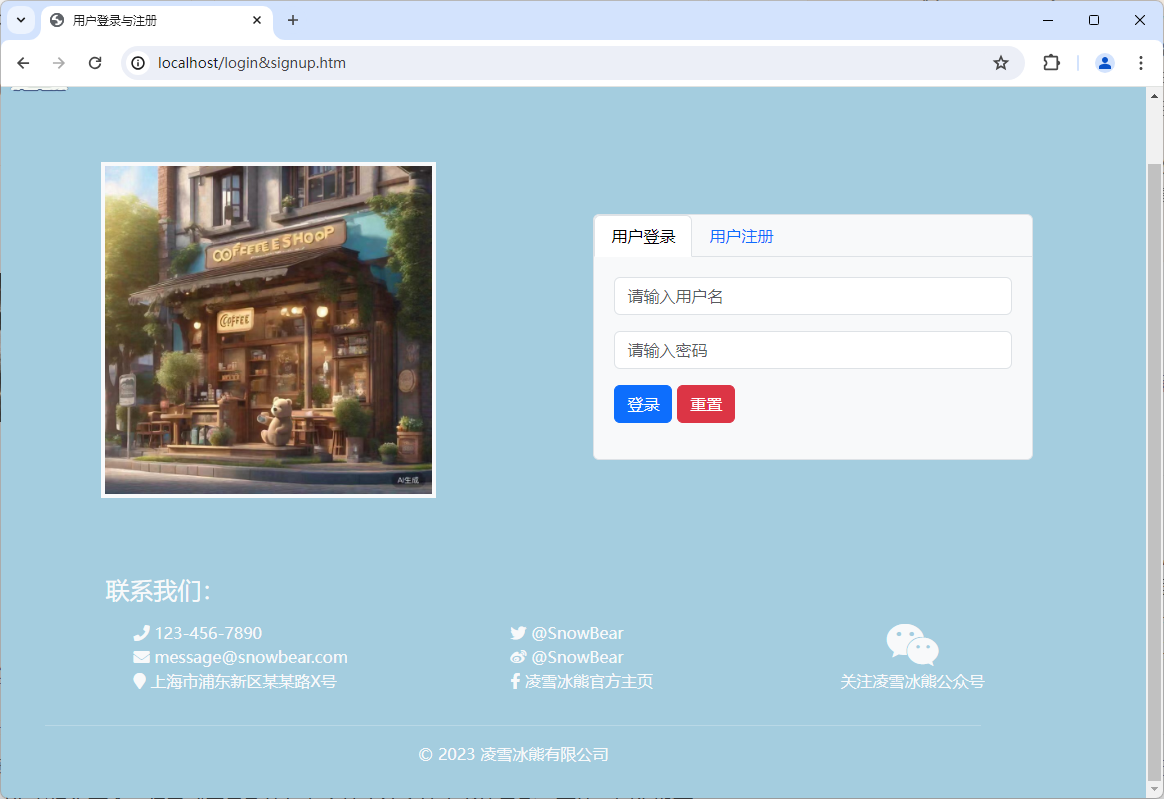
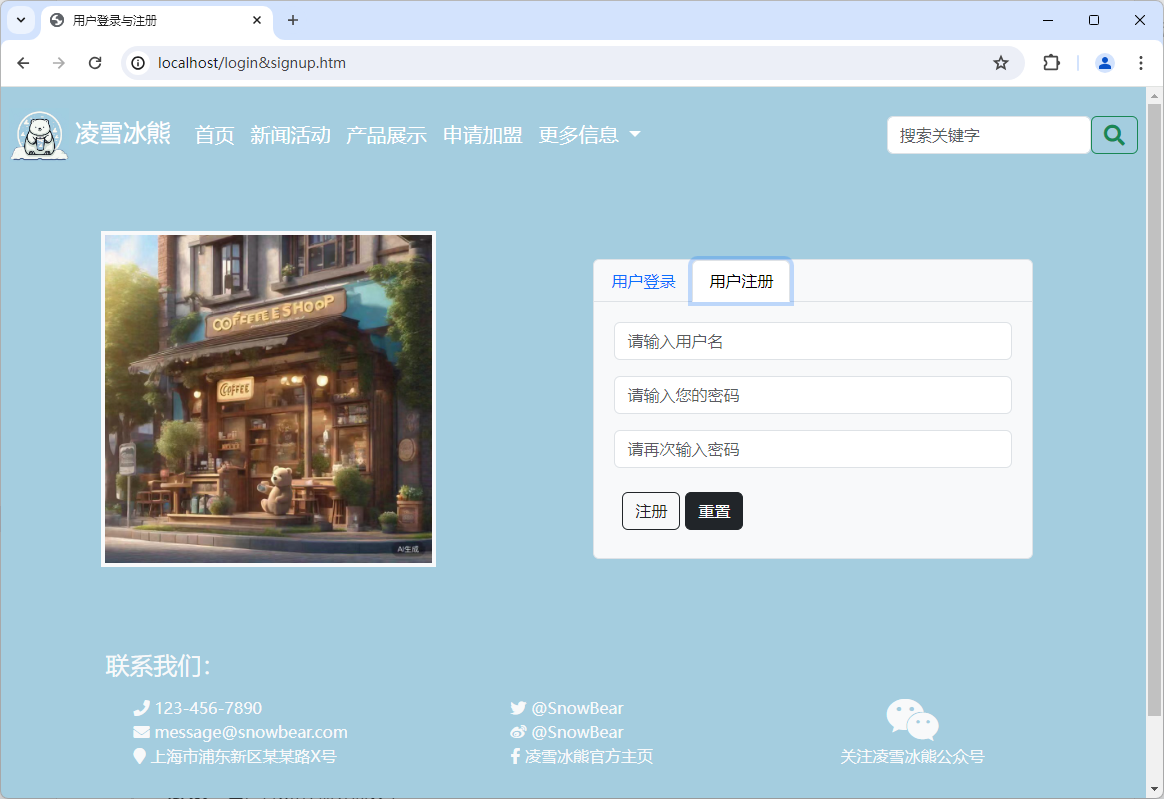
'项目3：进行到【工作实施与交付】'

diff --git a/Examples/01_snowbear/frontend/static/login&signup.htm b/Examples/01_snowbear/frontend/static/login&signup.htm
@@ -13,7 +13,10 @@
     <link rel="stylesheet" 
         href="https://use.fontawesome.com/releases/v5.11.2/css/all.css">
     <!-- 引入自定义的CSS样式文件 -->
-    <link rel="stylesheet" href="styles/custom.css"><title>用户登录与注册</title>
+    <link rel="stylesheet" href="styles/custom.css">
+    <!-- 引入自定义的JavaScript脚本文件 -->
+    <script defer src="scripts/login&signup.js"></script>
+    <title>用户登录与注册</title>
 </head>
 <body>
     <!-- 导航栏区域开始-->
@@ -99,19 +102,28 @@
                     <div class="tab-content container p-1">
                         <div class="tab-pane fade show active" id="loginTab"
                                 role="tabpanel" aria-labelledby="loginTab-tab">
-                                <form class="p-3 m-0"
-                                    method="post" action="http://example.com/api">
+                                <form class="p-3 m-0" id="loginForm"
+                                    method="post" 
+                                    action="http://localhost/users/session">
                                     <div class="mb-3">
-                                        <input type="text" class="form-control col-5" id="username" name="username" placeholder="请输入用户名">
+                                        <input type="text" class="form-control" 
+                                            name="username" placeholder="请输入用户名">
+                                        <div id="checkname" class="text-danger mx-2">
+                                        </div>
                                     </div>
-                                    <div class="mb-3">
-                                        <input type="password" class="form-control" id="password" name="password" placeholder="请输入密码">
+                                    <div class="mb-3 form-group">
+                                        <input type="password" class="form-control" 
+                                            name="password" placeholder="请输入密码">
+                                        <div id="checkpwd" class="text-danger mx-2">
+                                        </div>
                                     </div>
                                     <div class="mt-3 p-2">
-                                        <button type="submit" class="btn btn-light btn-outline-dark">
+                                        <button type="submit" 
+                                            class="btn btn-light btn-outline-dark">
                                             登录
                                         </button>
-                                        <button type="reset" class="btn btn-dark">
+                                        <button type="reset" 
+                                            class="btn btn-dark mx-3">
                                             重置
                                         </button>
                                     </div>
@@ -119,20 +131,34 @@
                         </div>
                         <div class="tab-pane fade" id="signupTab" role="tabpanel"
                             aria-labelledby="signupTab-tab">
-                            <form class="p-3 m-0"
-                                method="post" action="http://example.com/api">
+                            <form class="p-3 m-0" id="signupForm"
+                                method="post" action="http://localhost/users/newuser">
                                 <div class="mb-3">
-                                    <input type="text" class="form-control" id="username" name="username" placeholder="请输入用户名">
+                                    <input type="text" class="form-control" 
+                                        name="username" placeholder="请输入用户名">
+                                    <div id="checkname" class="text-danger mx-2">
+                                    </div>
                                 </div>
                                 <div class="mb-3">
-                                    <input type="password" class="form-control" id="password" name="password" placeholder="请输入您的密码">
+                                    <input type="password" class="form-control" 
+                                        name="password" placeholder="请输入您的密码">
                                 </div>
                                 <div class="mb-3">
-                                    <input type="password" class="form-control" id="password" name="password" placeholder="请再次输入密码">
+                                    <input type="password" class="form-control" 
+                                        id="password" name="password" 
+                                        placeholder="请再次输入密码">
+                                    <div id="checkpwd" class="text-danger mx-2">
+                                    </div>
                                 </div>
                                 <div class="mt-3 p-2">
-                                    <button type="submit" class="btn btn-light btn-outline-dark"">注册</button>
-                                    <button type="reset" class="btn btn-dark">重置</button>
+                                    <button type="submit" 
+                                        class="btn btn-light btn-outline-dark"">
+                                        注册
+                                    </button>
+                                    <button type="reset" 
+                                        class="btn btn-dark mx-3">
+                                        重置
+                                    </button>
                                 </div>
                             </form>
                         </div>
@@ -141,33 +167,34 @@
             </aside>
         </section>
     </main>
-        <!-- 页脚区域开始 -->
-        <footer class="p-3 text-light">
-            <section id="contact" class="container">
-                <h4>联系我们：</h4>
-                <div class="row m-3">
-                    <!-- 使用 <i> 标记的 class 属性插入来自第三方库的图标 -->
-                    <ul class="list-unstyled col-5">
-                        <li><i class="fa fa-phone"></i> 123-456-7890</li>
-                        <li><i class="fa fa-envelope"></i> message@snowbear.com</li>
-                        <li><i class="fa fa-map-marker"></i> 上海市浦东新区某某路X号</li>
-                    </ul>
-                    <ul class="list-unstyled col-4">
-                        <li><i class="fab fa-twitter"></i> @SnowBear</li>
-                        <li><i class="fab fa-weibo"></i> @SnowBear</li>
-                        <li><i class="fab fa-facebook-f"></i> 凌雪冰熊官方主页</li>
-                    </ul>
-                    <div class="col-3 text-center">
-                        <i class="fab fa-weixin fa-3x"></i>
-                        <p>关注凌雪冰熊公众号</p>
-                    </div>
+    <!-- 主体区域结束 -->
+    <!-- 页脚区域开始 -->
+    <footer class="p-3 text-light">
+        <section id="contact" class="container">
+            <h4>联系我们：</h4>
+            <div class="row m-3">
+                <!-- 使用 <i> 标记的 class 属性插入来自第三方库的图标 -->
+                <ul class="list-unstyled col-5">
+                    <li><i class="fa fa-phone"></i> 123-456-7890</li>
+                    <li><i class="fa fa-envelope"></i> message@snowbear.com</li>
+                    <li><i class="fa fa-map-marker"></i> 上海市浦东新区某某路X号</li>
+                </ul>
+                <ul class="list-unstyled col-4">
+                    <li><i class="fab fa-twitter"></i> @SnowBear</li>
+                    <li><i class="fab fa-weibo"></i> @SnowBear</li>
+                    <li><i class="fab fa-facebook-f"></i> 凌雪冰熊官方主页</li>
+                </ul>
+                <div class="col-3 text-center">
+                    <i class="fab fa-weixin fa-3x"></i>
+                    <p>关注凌雪冰熊公众号</p>
                 </div>
-            </section>
-            <section class="container text-center m-3 ">
-                <hr>
-                <span>&copy; 2023 凌雪冰熊有限公司</span>
-            </section>
-        </footer>
-        <!-- 页脚区域开始 -->
+            </div>
+        </section>
+        <section class="container text-center m-3 ">
+            <hr>
+            <span>&copy; 2023 凌雪冰熊有限公司</span>
+        </section>
+    </footer>
+    <!-- 页脚区域开始 -->
 </body>
 </html>

diff --git a/Examples/01_snowbear/frontend/static/scripts/login&signup.js b/Examples/01_snowbear/frontend/static/scripts/login&signup.js
@@ -1,0 +1,93 @@
+// 以下代码用于处理 id="loginForm" 的表单元素
+const loginForm = document.querySelector('#loginForm');
+
+// 检查用户名的输入
+loginForm.username.addEventListener('blur', function() {
+    const vmsg = loginForm.querySelector('#checkname');
+    if (!this.value) {
+        // 用户名为空时的处理逻辑
+        vmsg.innerText = '用户名不能为空！';
+        loginForm.username.classList.add('is-invalid');
+    } else if(!/^[a-zA-Z0-9]+$/.test(this.value)) {
+        // 用户名包含非法字符时的处理逻辑
+        vmsg.innerText = '用户名只能包含字母和数字空！';
+        loginForm.username.classList.add('is-invalid');;
+    } else {
+        // 用户名合法时的处理逻辑
+        vmsg.innerText = '';
+        loginForm.username.classList.remove('is-invalid');
+        loginForm.username.classList.add('is-valid');
+    }
+})
+
+// 检查密码的输入
+loginForm.password.addEventListener('blur', function() {
+    const vmsg = loginForm.querySelector('#checkpwd');
+    if (!this.value) {
+        // 密码为空时的处理逻辑
+        vmsg.innerText = '密码不能为空！';
+        loginForm.password.classList.add('is-invalid');
+    } else if(this.value.length < 6) {
+        // 密码长度小于6时的处理逻辑
+        vmsg.innerText = '密码长度不能小于6！';
+        loginForm.password.classList.add('is-invalid');
+    } else {
+        // 密码输入合法时的处理逻辑
+        vmsg.innerText = '';
+        loginForm.password.classList.remove('is-invalid');
+        loginForm.password.classList.add('is-valid');
+    }
+})
+
+// 提交表单时的处理逻辑
+loginForm.addEventListener('submit', async function(event) {
+    event.preventDefault(); // 阻止表单默认提交行为
+    // 检查表单是否通过验证
+    if (!loginForm.username.value || !loginForm.password.value) {
+        // 用户名或密码为空时的处理逻辑
+        window.alert('用户名和密码不能为空！');
+        return;
+    }
+    // 收集表单数据
+    const formData = {
+        username: loginForm.username.value,
+        password: loginForm.password.value
+    };
+    // 发送用户登录请求
+    try {
+        const res = await fetch(loginForm.action, {
+            method: loginForm.method,
+            headers: {
+                'Content-Type': 'application/json'
+            },
+            body: JSON.stringify(formData)        
+        });
+        if(res.status == 200) {
+            // 登录成功时的处理逻辑
+            window.alert('登录成功');
+        } else {
+            // 登录失败时的处理逻辑
+            window.alert('登录失败');
+        }
+    } catch(error) {
+        // 请求出错时的处理逻辑
+        window.alert('请求出错');
+    }
+})
+
+// 重置表单的处理逻辑
+loginForm.addEventListener('reset', function() {
+    // 清除表单验证信息
+    let vmsg = loginForm.querySelector('#checkname');
+    vmsg.innerText = '';
+    vmsg = loginForm.querySelector('#checkpwd');
+    vmsg.innerText = ''
+    // 清除表单验证样式;
+    loginForm.username.classList.remove('is-valid');
+    loginForm.username.classList.remove('is-invalid');
+    loginForm.password.classList.remove('is-valid');
+    loginForm.password.classList.remove('is-invalid');
+    // 重置表单
+    loginForm.reset();
+    
+})

diff --git a/Examples/01_snowbear/backend/users.js b/Examples/01_snowbear/backend/users.js
@@ -39,7 +39,7 @@ const usersApi = {
     userLogin: async function(req) {
         return new Promise(async function(resolve, reject) {    
             await getFormData(req, async function(loginData) {
-                // console.log(loginData);
+                console.log(loginData);
                 if(loginData.username == undefined 
                     || loginData.password == undefined)
                 {

diff --git a/Markdown/03.md b/Markdown/03.md
@@ -617,23 +617,25 @@ userid=1;islogin=true;Path=/;Max-Age=3600
 
 在这一步骤中，软件工程师的主要任务是基于项目【任务书】中提供的、用于执行用户注册/登录功能的后端HTTP API来创建相应的Web UI。为此，读者需要执行以下操作。
 
-1. 使用VS Code编辑器打开之前创建的`01_snowbear`项目，然后在项目根目录下的`frontend/static`目录中为创建一个名为`login&signup.htm`的HTML文件，并在其中输入如下代码。
+1. 使用VS Code编辑器打开之前创建的`01_snowbear`项目，然后在项目根目录下的`frontend/static`目录中找到名为`template.htm`的模板文件，并基于该模版创建一个名为`login&signup.htm`的HTML文件。
+
+2. 打开刚刚创建的`login&signup.htm`文件，然后其中找到`<!-- 在此处填充网页的主体内容 -->`这行注释所在的位置，并在该位置上插入如下代码。
 
    ```html
    ```
 
-2. 下面来编写一下用于处理上述HTML文档中表单元素的JavaScript脚本。为此，读者需要继续在上述`frontend/static`目录下创建一个名为`scripts`的子目录，并在其中创建一个名为`login&signup.js`的模块文件，并在其中输入如下代码。
+3. 下面来编写一下用于处理上述HTML文档中表单元素的JavaScript脚本。为此，读者需要继续在上述`frontend/static`目录下创建一个名为`scripts`的子目录，并在其中创建一个名为`login&signup.js`的模块文件，并在其中输入如下代码。
 
    ```JavaScript
    ```
 
-3. 在保存了上述代码之后，读者可以试着重新启动一下该Web应用的前端服务，然后再用浏览器打开当前步骤所创建的`login&signup.htm`文件，就可以看到它所呈现的界面效果了，其效果如图3-2所示。
+4. 在保存了上述代码之后，读者可以试着重新启动一下该Web应用的前端服务，然后再用浏览器打开当前步骤所创建的`login&signup.htm`文件，就可以看到它所呈现的界面效果了，其效果如图3-2所示。
 
     ![用户登录/注册界面效果](./img/3-2.png)
 
     **图3-2**：用户登录/注册界面效果
 
-4. 接下来，读者需要将当前步骤所获得的进展提交给git版本控制系统了，具体命令如下。
+5. 接下来，读者需要将当前步骤所获得的进展提交给git版本控制系统了，具体命令如下。
 
     ```bash
     git add .
@@ -644,7 +646,9 @@ userid=1;islogin=true;Path=/;Max-Age=3600
 
 在这一步骤中，软件工程师的主要任务是基于项目【任务书】中提供的、用于执行用户注册/登录功能的后端HTTP API来创建相应的Web UI。为此，读者需要执行以下操作。
 
-1. 使用VS Code编辑器打开之前创建的`01_snowbear`项目，然后在项目根目录下的`frontend/static`目录中为创建一个名为`messageEdit.htm`的HTML文件，并在其中输入如下代码。
+1. 使用VS Code编辑器打开之前创建的`01_snowbear`项目，然后在项目根目录下的`frontend/static`目录中找到名为`template.htm`的模板文件，并基于该模版创建一个名为`messageEdit.htm`的HTML文件。
+
+2. 打开刚刚创建的`messageEdit.htm`文件，然后其中找到`<!-- 在此处填充网页的主体内容 -->`这行注释所在的位置，并在该位置上插入如下代码。
 
    ```html
    ```
